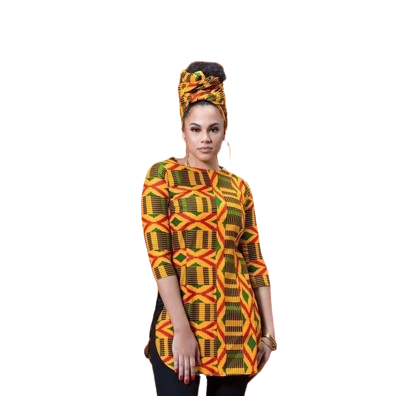
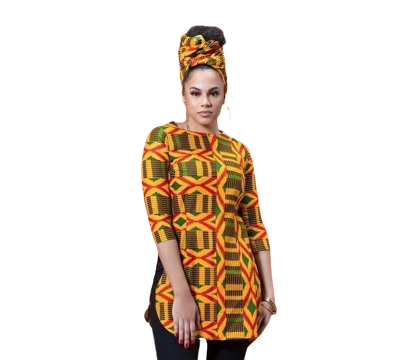
fix image on sash

Changed region(s): [[0.3235, 0.0611, 0.6765, 1.0]]

diff --git a/src/Pages/Customize/Configurator/ConfiguratorUnisex.js b/src/Pages/Customize/Configurator/ConfiguratorUnisex.js
@@ -762,14 +762,11 @@ const ConfiguratorUnisex = () => {
       return;
     }
 
-    if (onlySashes.includes(selectedClothing.name)) {
-      setStateImage(selectedClothing.confirm_image);
-    } else {
+   
       const canvasImage = await html2canvas(canvasRef.current);
       const dataUrl = canvasImage.toDataURL();
 
       setStateImage(dataUrl);
-    }
 
     setShowConfirmation(true);
   };
